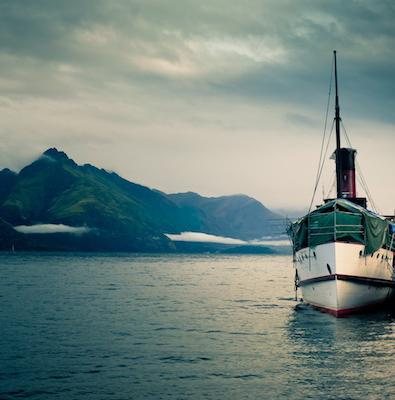
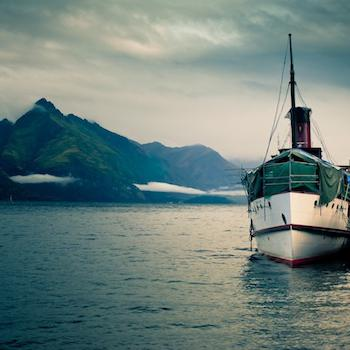
Add README.md file and change example images

diff --git a/seam_carving/README.md b/seam_carving/README.md
@@ -1,0 +1,100 @@
+# Seam Carving Project
+
+
+## Run project
+run with this command format:
+
+    python main.py input_file dx dy
+
+
+* input_file : path of input image
+* dx : deacresing pixel number in width direction
+* dy : deacresing pixel number in height direction
+
+
+like this:
+
+    python main.py input1.jpg 10 10
+
+-----------------------------------------------
+## Examples
+
+`>>> python main.py input1.py 50 50`
+
+input example
+
+![example_input](input1.jpg)
+
+output example
+
+![example_output](output_of_input1.jpg)
+
+output gif
+
+![example_gif](output_of_input1.gif)
+
+------------------------------------------
+## Energy algorithm
+
+در این پروژه من از دو متد محاسبه انرژی متفاوت استفاده کردم.
+
+اولی همان متد داخل داک پروژه بود که طبق محاسبات زمانی برای هر عکس ۴۰۰ در ۴۰۰ پیکسل ۴ ثانیه طول میکشید.علت طولانی شدن این الگوریتم تعداد محاسبات زیاد ریاضی شامل توان دو و جذر هست.که این محاسبات باید برا هر پیکسل انجام شود و در واقع باید به تعداد طول ضرب در عرض عکس اینکار تکرار شود.
+
+دومی یک متد محاسبه ی انرژی از گیت هاب هست که با استفاده از دی پی و با سرعت خیلی بالا تری محاسبه را در کمتر از یک دهم ثانیه برای عکس ۴۰۰ در ۴۰۰ انجام میدهد.
+
+--------------------------------------------
+## Find seam algorithm
+توضیح الگوریتم را از اینجا شروع میکنم.
+
+برای هر پیکسل از عکس، این شرایط برقرار هست.کوتاهترین مسیری که میتواند وجود داشته باشد و این پیکسل از عبور کند به این شکل خواهد بود که باید از یکی از سه پیکسل بالایی به این پیکسل وارد شد.یعنی مثلا از آ به جی
+```
+A B C
+ \|/
+  G
+```
+
+روند حرکت از بالا به پایین هست.همسایگی هاهم حتمن به همین شکل هستند.پس میتوان از سطر اول شروع کرد و به پایین آمد و همیشه کمترین مسیر را برای هر نود انتخاب کرد.ما در واقع برای هر نود مشخص میکنیم که از کدام نود بالاسری باید به این نود رسید تا کمترین مقدار باشد.
+
+ارزش تمام نود های سطر اول همان مقدار انرژی آنهاست.بعد از بالا شروع میکنیم و به سطر های دوم و سوم و پایین تر میرویم.در هر سطر برای هر پیکسل با استفاده از برنامه ریزی پویا و اطلاعاتی که برای نود های بالایی بدست اورده ایم تصمیم میگیریم که برای اینکه با کمترین مقدار از این پیکسل عبور کنیم باید از کدام پیکسل بالاسری به این پیکسل وارد شویم.
+
+پیکسل بالا سری ای که مقدار کمتری از بقیه دارد به عنوان جد این پیکسل در حال بررسی انتخاب میشود.
+
+یعنی فرمول ان به این شکل میشود
+
+```
+                             A
+          <------------------------------------->
+C[x, y] = Min(C[x-1, y-1], C[x-1, y], C[x-1, y+1]) + energy[x, y]
+
+ancestor[x, y] = A
+
+A is node with minimum value
+```
+حالا این کار را از بالا به پایین برای همه پیکسل ها انجام میدهیم
+
+O(Height * Width)
+
+و سپس از سطر آخر آن پیکسلی که مقدار محاسبه تا اینجا برای آن از همه کمتر هست را انتخاب میکنیم
+
+O(Width)
+
+و سپس با استفاده از آرایه پدر ها مسیر را از پایین به بالا پیدا میکنیم
+
+O(Height)
+
+پس اردر زمانی این الگوریتم
+
+    Time Complexity = O(Height * Width)
+
+میباشد
+
+* در طول اجرای الگوریتم یک آرایه ی دو بعدی برای نگهداری مقادیر انرژی ها نیاز داریم
+
+* یک آرایه دو بعدی برای ذخیره کمترین مقداری که میتوان از بالا به پایین حرکت کرد و به این نود رسید
+
+* و یک آرایه دو بعدی برای نگهداری پدر های هر پیکسل 
+
+        Space Complexity = 3 * O(Height * Width) = O(Height * Width)
+
+
+
